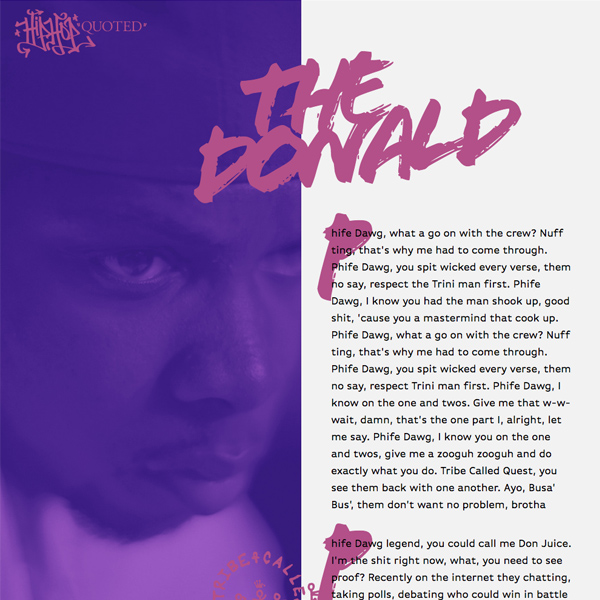
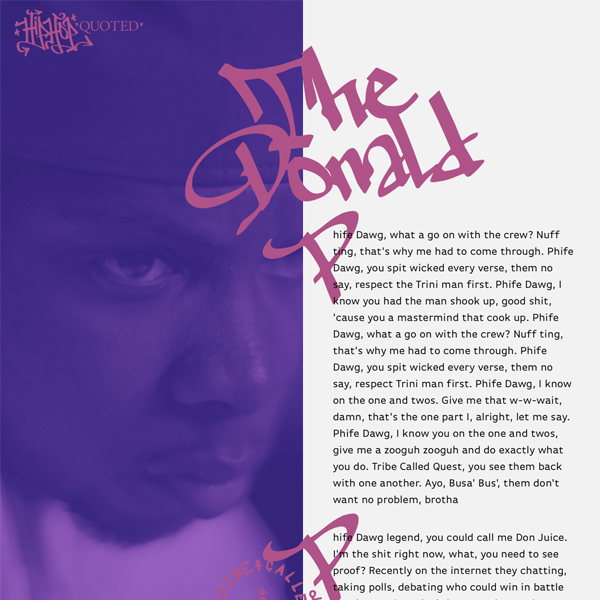
Update font

diff --git a/source/stylesheets/a-tribe-called-quest-the-donald.css.scss b/source/stylesheets/a-tribe-called-quest-the-donald.css.scss
@@ -98,25 +98,23 @@ p {
 }
 h1 {
   color: $primary-color;
-  font-family: "flood-std", sans-serif;
-  font-size: 18vw;
+  font-family: "subway-new-york-std",sans-serif;
+  font-size: 20vw;
   left: 60%;
-  letter-spacing: -1.8rem;
+  letter-spacing: 0;
   line-height: 0.8;
   position: absolute;
   top: 3%;
 
   @media screen and (max-width: 900px) {
     left: 5%;
-    font-size: 26vw;
-    letter-spacing: -1.6rem;
+    font-size: 34vw;
     position: relative;
-    top: 20%;
+    top: 15%;
   }
 
   @media screen and (max-width: 600px) {
-    letter-spacing: -1rem;
-    top: 35%;
+    top: 30%;
   }
 
   span {
@@ -146,9 +144,11 @@ article {
     left: 0;
     position: fixed;
     width: 50%;
+    z-index: -1;
 
     @media screen and (max-width: 900px) {
       height: 70vh;
+      min-height: 400px;
       position: relative;
       max-width: 100%;
       width: 100%;
@@ -203,11 +203,12 @@ figure {
 }
 .verse {
   position: relative;
+  z-index: 2;
   span {
     color: $primary-color;
-    font-family: "flood-std", sans-serif;
+    font-family: "subway-new-york-std",sans-serif;
     font-size: 12rem;
-    left: -2rem;
+    left: -5rem;
     line-height: 1;
     position: absolute;
     top: -3rem;
@@ -224,9 +225,9 @@ figure {
 }
 figcaption {
   color: $primary-color;
-  font-family: "flood-std", sans-serif;
+  font-family: "subway-new-york-std",sans-serif;
   font-size: 6rem;
-  letter-spacing: -0.6rem;
+  letter-spacing: 0;
   line-height: 0.8;
 
   @media screen and (max-width: 1300px) {
@@ -235,12 +236,10 @@ figcaption {
 
   @media screen and (max-width: 900px) {
     font-size: 4rem;
-    letter-spacing: -0.4rem;
   }
 
   @media screen and (max-width: 600px) {
     font-size: 3rem;
-    letter-spacing: -0.2rem;
   }
 
   @include transform(rotate(-8deg));
